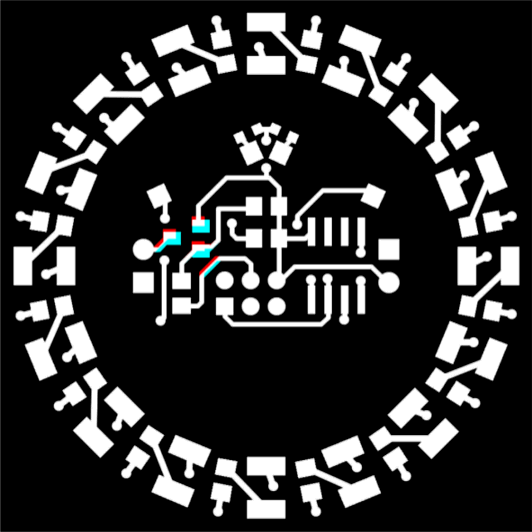
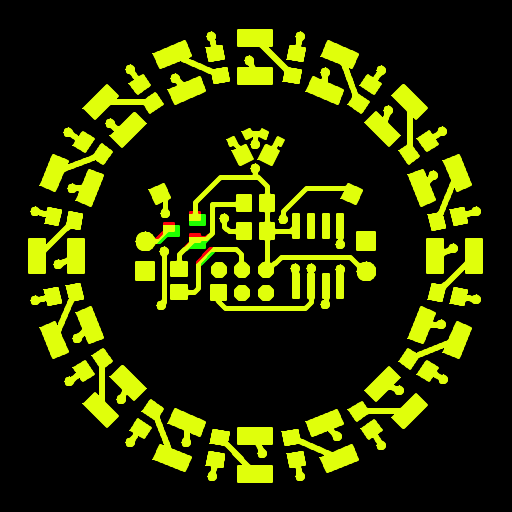
Using 'gerbv' in XOR mode now. Much quicker and less hassle.

diff --git a/scripts/visual-diffs_on_gerber-files/README.md b/scripts/visual-diffs_on_gerber-files/README.md
@@ -6,18 +6,13 @@ This is a very basic way of getting visual diffs for gerber files using git.
 
 [![visual-diff_on_gerber-files](/pics/gerber-visual-diff.png)](/scripts/visual-diffs_on_gerber-files/pics/gerber-visual-diff.png)
 
-1) This script will use 'gerbv' to create png-images from gerber files.
-
-2) The resulting images will be processed by 'ImageMagick' tools to create
-   visual diffs.
+This script uses 'gerbv' to show differences in gerber files by XOR-ing two revisions supplied by git.
 
 
 Requirements:
 =============
 
 * gerbv
-* ImageMagick
-* xwininfo
 
 
 Setup:
@@ -25,9 +20,9 @@ Setup:
 
 1) Adapt your personal '.gitconfig' to include the [difftool] sections.
 
-2) Copy the script to a convenient place (/usr/local/bin/) and make it executable.
+2) Adjust as necessary!
 
-3) Adjust as necessary!
+3) Copy the script to a convenient place (/usr/local/bin/) and make it executable.
 
 
 Invocation from git:
@@ -41,16 +36,4 @@ git difftool -t visdiff
 
 git difftool -t visdiff commit-ID-1 commit-ID-2
 
-
-Caveats:
-========
-
-When the size of the gerber data (boardsize...) is changed, the script
-will stretch them to size and probably display false diff information.
-
-This may happen if you e.g. remove a drill-location from the edge of
-the drill file.
-
-For copper layers etc., this effect can be removed by always having the
-board-outline on all layers when creating the gerber files.
 
